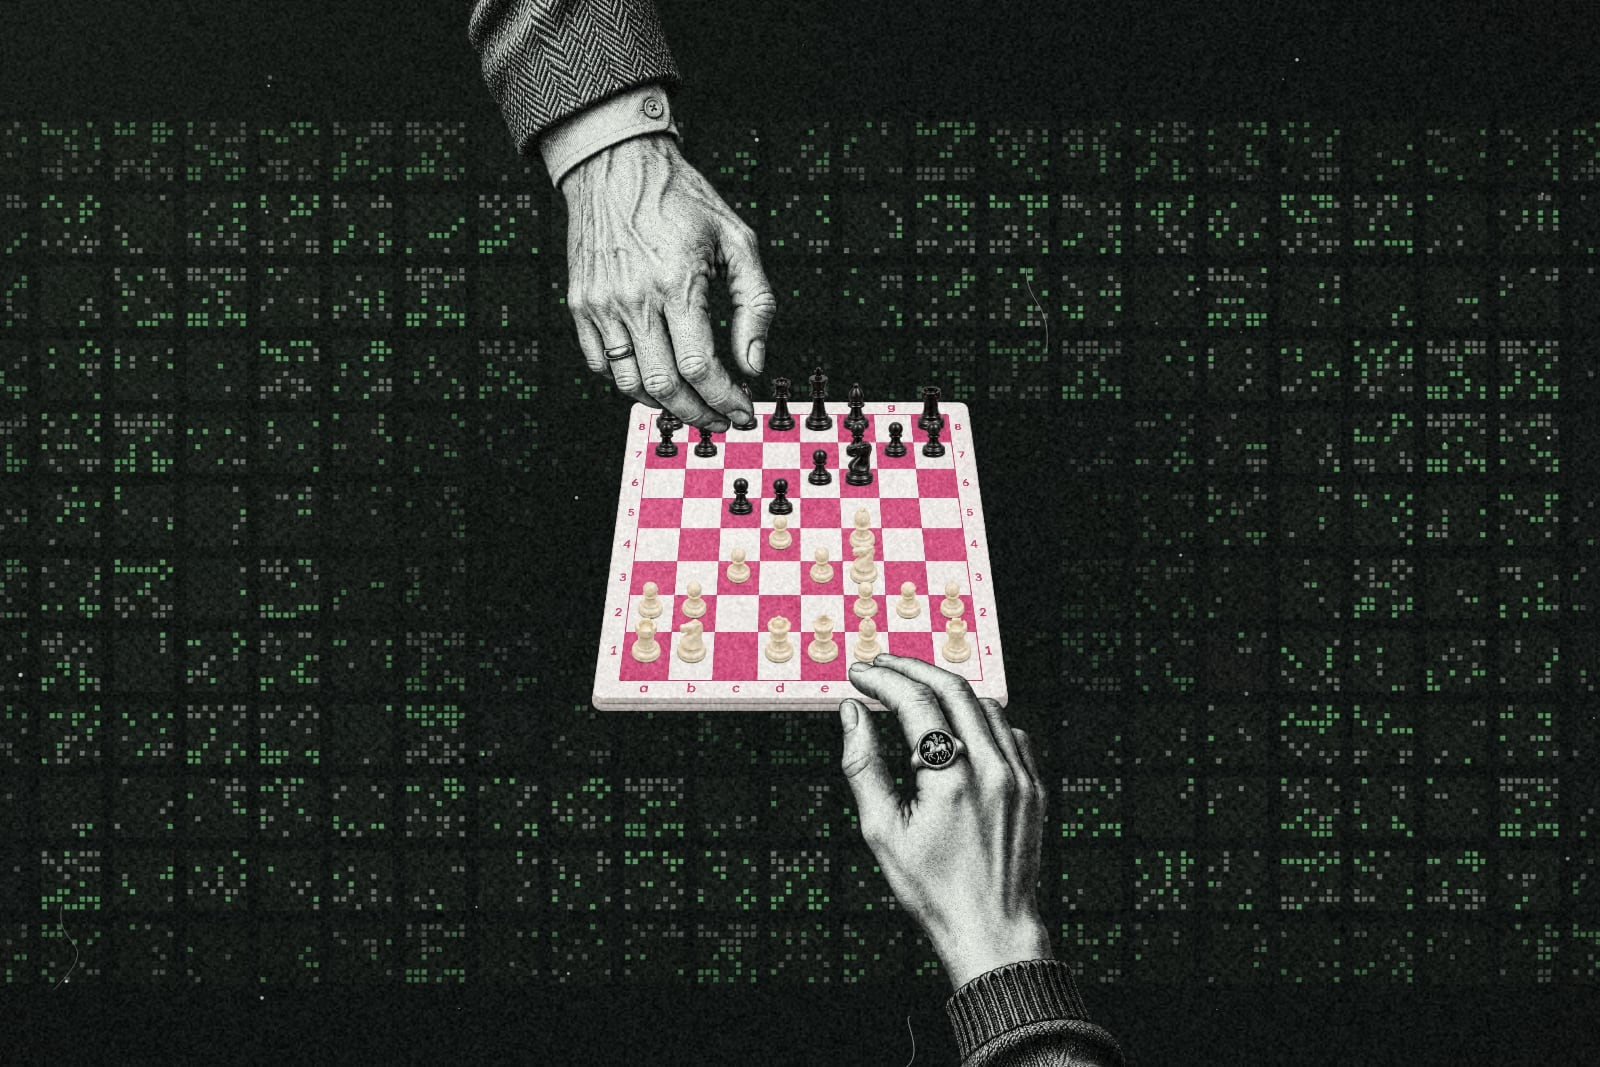
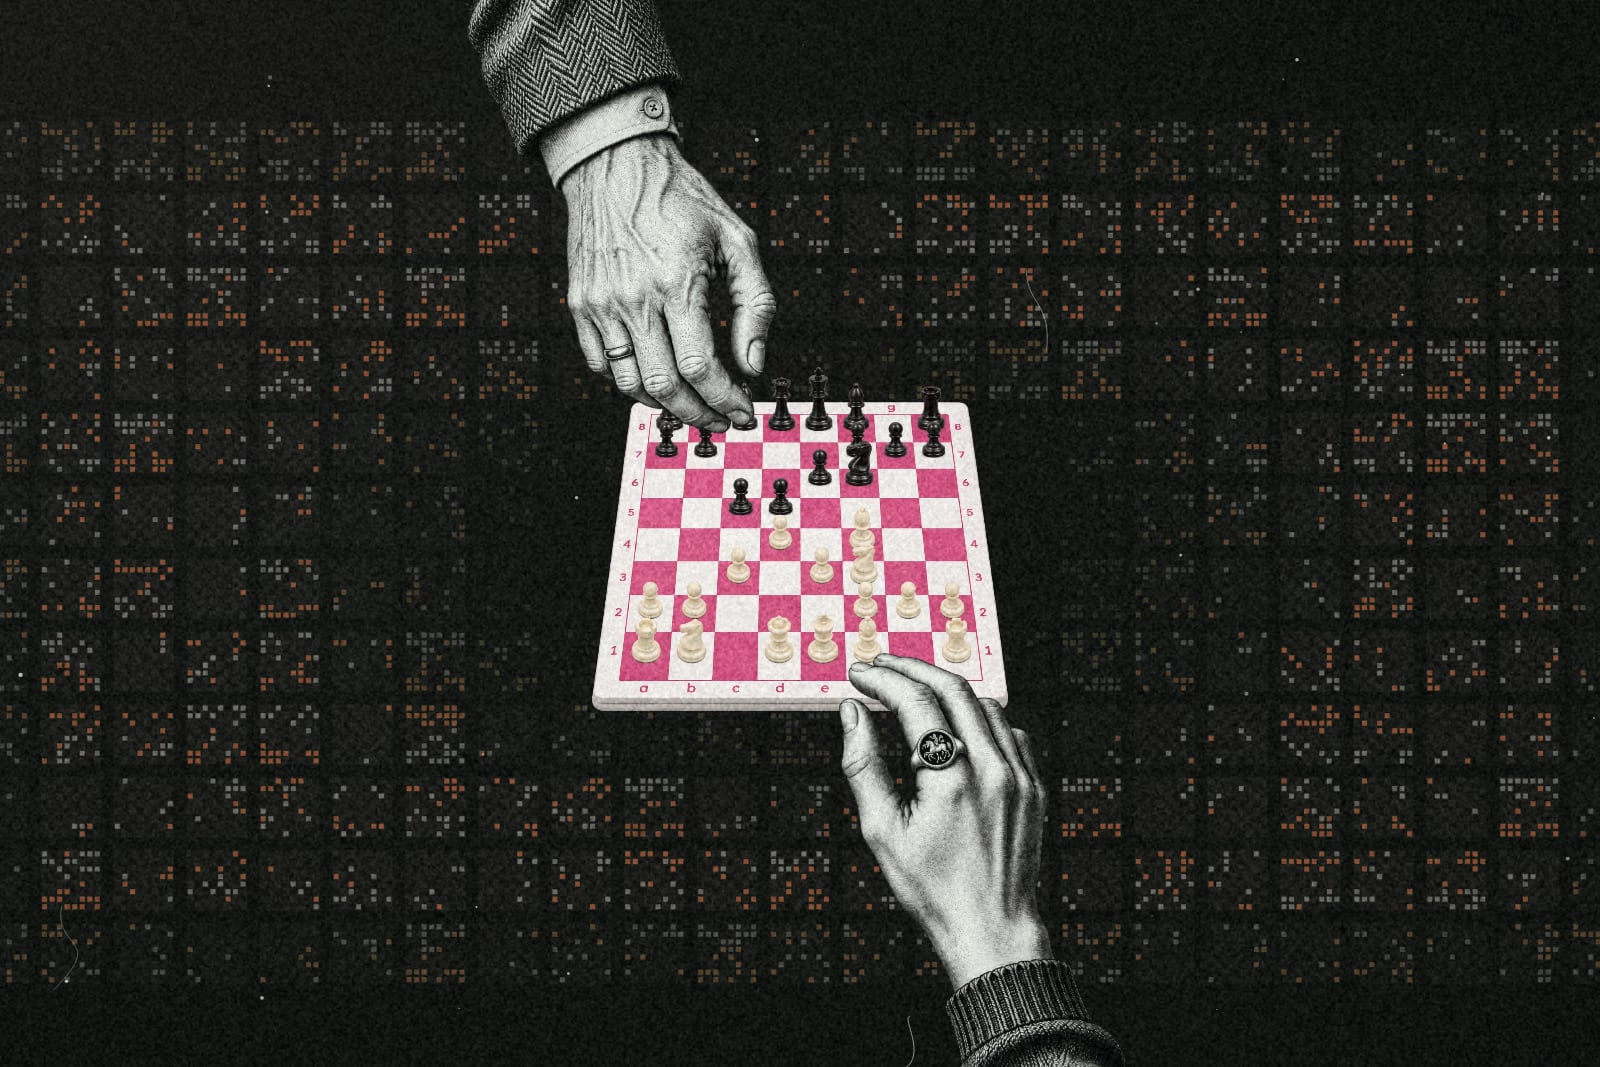
Chess story: colour roles (clay author, green reader, blue and gold for the others), ivory navigation, cover grid in clay

diff --git a/src/components/stories/chess/chess.module.css b/src/components/stories/chess/chess.module.css
@@ -7,6 +7,13 @@
   --thread: var(--form-essay);
   /* The estimate beside it, in the site's green for data. */
   --social: var(--form-data);
+  /* Colour roles. Clay is the author; green is the reader, and only the reader.
+     The others' side is blue (what they do, the computer, resigning) and gold
+     (what they say, the upside, games saved); the crowd itself is ivory. The
+     four were checked together on the page's dark ground (separation, contrast);
+     gold and green stay apart by labels and place, never by hue alone. */
+  --other: #3d8bff;
+  --other-2: #dba51d;
   position: relative;
   isolation: isolate;
 }
@@ -81,7 +88,7 @@
   content: ""; position: absolute; left: 0; top: 50%; z-index: 1; width: 7px; height: 7px; margin-top: -3.5px; border-radius: 50%;
   background: var(--ink-3); box-shadow: 0 0 0 4px var(--void); transition: background-color 150ms ease, transform 150ms ease;
 }
-.ch-navList > li[data-on="true"] > a::before { background: var(--form-data); transform: scale(1.3); }
+.ch-navList > li[data-on="true"] > a::before { background: var(--ink); transform: scale(1.3); }
 
 /* A wide screen: the rail. The story's column gives way on the right for as
    much as the margin lacks, so the rail is never over the story; and the
@@ -99,7 +106,7 @@
   /* the line through the dots, and how much of it the reader has come */
   .ch-navList::before, .ch-navList::after { content: ""; position: absolute; left: 3px; top: var(--line-top, 0px); width: 1px; }
   .ch-navList::before { height: var(--line-long, 0px); background: var(--rule-strong); }
-  .ch-navList::after { height: var(--line-done, 0px); background: var(--form-data); }
+  .ch-navList::after { height: var(--line-done, 0px); background: var(--ink-2); }
   .ch-navList > li > a { display: block; padding-left: 24px; font: 400 13px / 1.35 var(--font-mono); }
   /* the parts of a chapter show while it is being read, or while the keyboard is in it */
   .ch-story .ch-navParts { display: none; gap: 9px; padding: 11px 0 2px 24px; }
@@ -118,11 +125,11 @@
     font: 500 13px / 1 var(--font-mono); text-align: left; cursor: pointer; pointer-events: auto; -webkit-tap-highlight-color: transparent;
   }
   .ch-navNow { display: inline-flex; align-items: center; gap: 10px; min-width: 0; white-space: nowrap; }
-  .ch-navNow::before { content: ""; flex: none; width: 7px; height: 7px; border-radius: 50%; background: var(--form-data); }
+  .ch-navNow::before { content: ""; flex: none; width: 7px; height: 7px; border-radius: 50%; background: var(--ink); }
   .ch-navAsk { display: inline-flex; flex: none; align-items: center; gap: 9px; color: var(--ink-2); font-size: 10.5px; letter-spacing: 0.12em; text-transform: uppercase; }
   .ch-navAsk svg { width: 12px; height: 12px; fill: none; stroke: currentColor; stroke-width: 1.2; stroke-linecap: round; }
   /* how far through the chapters the reader is, along the bar's foot */
-  .ch-navDone { position: absolute; left: 0; right: 0; bottom: -1px; height: 2px; background: var(--form-data); transform-origin: 0 50%; transform: scaleX(var(--done, 0)); }
+  .ch-navDone { position: absolute; left: 0; right: 0; bottom: -1px; height: 2px; background: var(--ink-2); transform-origin: 0 50%; transform: scaleX(var(--done, 0)); }
   .ch-navPanel {
     position: absolute; top: var(--bar); left: calc(-1 * var(--page-margin)); right: calc(-1 * var(--page-margin)); display: none;
     max-height: calc(100vh - var(--bar)); max-height: calc(100svh - var(--bar)); overflow-y: auto; padding: 18px var(--page-margin) 14px;
@@ -707,8 +714,8 @@
 .ch-rvLine { transition: opacity var(--ch-fade) ease; }
 .ch-rvLine[data-on="false"] { opacity: 0.3; }
 .ch-rvAxis { stroke: var(--rule-strong); stroke-width: 1; }
-.ch-rvMiddle { fill: var(--ink); opacity: 0; transition: opacity var(--ch-fade) ease; }
-.ch-rvMiddle[data-on="true"] { opacity: 0.08; }
+.ch-rvMiddle { fill: var(--other); opacity: 0; transition: opacity var(--ch-fade) ease; }
+.ch-rvMiddle[data-on="true"] { opacity: 0.14; }
 .ch-rvName { fill: var(--ink); font: 400 19px / 1 var(--font-title); }
 .ch-rvWhat { fill: var(--ink-2); font: 400 12px / 1 var(--font-mono); }
 .ch-rvEnd { fill: var(--ink-2); font: 400 12px / 1 var(--font-mono); }
@@ -809,19 +816,19 @@
 .ch-rvCard[data-truth="true"] { border-color: var(--ink); box-shadow: inset 0 0 0 1px var(--ink); }
 .ch-rvCard[data-truth="her"] { border-color: var(--thread); box-shadow: inset 0 0 0 1px var(--thread); }
 .ch-rvCard[data-truth="you"] { border-color: var(--form-data); box-shadow: inset 0 0 0 1px var(--form-data); }
-.ch-rvCard[data-cpu="true"] { outline: 1.5px dashed var(--ink-2); outline-offset: 3px; }
+.ch-rvCard[data-cpu="true"] { outline: 1.5px dashed var(--other); outline-offset: 3px; }
 .ch-rvCard[data-dim="true"] { opacity: 0.4; }
 .ch-rvFlags { position: absolute; left: -8px; right: -8px; top: calc(100% + 5px); text-align: center; white-space: nowrap; font: 500 10.5px / 1 var(--font-mono); }
 .ch-rvFlags [data-kind="truth"] { color: var(--ink); }
 .ch-rvFlags [data-kind="her"] { color: var(--thread); }
 .ch-rvFlags [data-kind="you"] { color: var(--form-data); }
-.ch-rvFlags [data-kind="cpu"] { color: var(--ink-2); }
+.ch-rvFlags [data-kind="cpu"] { color: var(--other); }
 
 /* the curve */
 .ch-rvGrid0 { stroke: var(--rule); stroke-width: 1; }
 .ch-rvGrid0[data-zero="true"] { stroke: var(--rule-strong); }
 .ch-rvTick { fill: var(--ink-2); font: 400 12px / 1 var(--font-mono); }
-.ch-rvSeries { --line: var(--ink-2); }
+.ch-rvSeries { --line: var(--other); }
 .ch-rvSeries[data-kind="chance"] { --line: var(--ink-3); }
 .ch-rvSeries[data-kind="her"] { --line: var(--thread); }
 .ch-rvSeries[data-kind="you"] { --line: var(--form-data); }
@@ -831,7 +838,7 @@
 .ch-rvSeries[data-kind="disguise"] path { stroke-width: 2; }
 .ch-rvSeries circle { fill: var(--line); }
 .ch-rvSeries text, .ch-rvEndLabel { fill: var(--line); font: 500 12.5px / 1 var(--font-mono); }
-.ch-rvEndLabel { --line: var(--ink-2); }
+.ch-rvEndLabel { --line: var(--other); }
 .ch-rvEndLabel[data-kind="chance"] { --line: var(--ink-3); }
 .ch-rvEndLabel[data-kind="her"] { --line: var(--thread); }
 .ch-rvEndLabel[data-kind="you"] { --line: var(--form-data); }
@@ -858,7 +865,7 @@
 }
 /* What we do when things go wrong (wrong.js): the phone, the fork, the hundred, the charts.
    Clay is the author; data green, games saved and the reader's controls; lavender, resigning. */
-.ch-wrong { --scene: wrong; --resign: #b59dd9; --lost: #55524d; --saved: var(--ink); }
+.ch-wrong { --scene: wrong; --resign: var(--other); --lost: #55524d; --saved: var(--other-2); }
 .ch-wrongScene { position: relative; width: 100%; height: 100%; display: grid; place-items: center; }
 .ch-layer.ch-wrongLayer { inset: 0; display: grid; place-items: center; }
 /* The boards of her games, as Chess.com draws them (cc-board.js), without the phone. */
@@ -1040,11 +1047,13 @@
 .ch-paceCloud[data-crowd="true"] circle, .ch-crowdDot[data-settled="true"], .ch-crowdDot[data-tone] {
   transition: transform 1100ms var(--ch-ease), opacity 500ms ease, fill 500ms ease;
 }
-.ch-ratings circle[data-tone="quiet"] { fill: var(--ink-3); }
+.ch-ratings circle[data-tone="quiet"] { fill: var(--ink-2); }
+.ch-ratings circle[data-tone="blue"] { fill: var(--other); }
+.ch-ratings circle[data-tone="gold"] { fill: var(--other-2); }
 .ch-ratings circle[data-tone="plain"] { fill: var(--ink-2); }
 .ch-ratings circle[data-tone="lit"] { fill: var(--ink); }
-.ch-ratings circle[data-tone="resign"] { fill: var(--resign, #b59dd9); }
-.ch-ratings circle[data-tone="kept"] { fill: var(--ink-3); }
+.ch-ratings circle[data-tone="resign"] { fill: var(--resign, var(--other)); }
+.ch-ratings circle[data-tone="kept"] { fill: var(--ink-2); }
 .ch-crowdFade, .ch-crowdMarks > g, .ch-crowdTag { transition: opacity 500ms ease; }
 .ch-crowdFade:not([data-settled]) { transition: none; }
 .ch-ratingMe[data-settled="true"] { transition: transform 1100ms var(--ch-ease), opacity 500ms ease; }
@@ -1058,10 +1067,14 @@
 .ch-ratings .ch-crowdLabelLit { fill: var(--ink); }
 .ch-ratings .ch-crowdExample { fill: var(--ink-2); opacity: 0.8; }
 .ch-crowdMedian line { stroke: var(--ink); stroke-width: 2; }
+.ch-crowdMedian[data-hue="blue"] line { stroke: var(--other); }
+.ch-crowdMedian[data-hue="gold"] line { stroke: var(--other-2); }
+.ch-hueBlue { fill: var(--other); }
+.ch-hueGold { fill: var(--other-2); }
 .ch-ratings .ch-crowdMedian text { fill: var(--ink); }
 .ch-crowdMe { stroke: var(--thread); stroke-width: 1.5; }
-.ch-ratings .ch-crowdResign { fill: var(--resign, #b59dd9); }
-.ch-sayPin { --resign: #b59dd9; }
+.ch-ratings .ch-crowdResign { fill: var(--resign, var(--other)); }
+.ch-sayPin { --resign: var(--other); }
 .ch-ratingReadout b.ch-crowdResignText { color: var(--resign); }
 /* the guesses, in the words beside the crowd: all four kinds in one step */
 .ch-nameAsks { display: grid; gap: 18px; margin-top: 22px; }

diff --git a/src/components/stories/chess/crowd.js b/src/components/stories/chess/crowd.js
@@ -18,7 +18,7 @@ export const GROUPS = NAMES.groups
 export const TYPICAL = NAMES.typical
 export const MY_RAPID = say.fast.rapid
 export const RATING_MAX = 2500
-export const RESIGN = "#b59dd9"
+export const RESIGN = "#3d8bff"
 
 export const truth = g => (g.high < 0.5 ? "lower" : g.low > 0.5 ? "higher" : "same")
 
@@ -162,12 +162,14 @@ export const dotAt = (layout, index, { stage, step, revealed }) => {
   }
   const key = layout.rowOf[index]
   const active = activeGroups(step)
-  if (key === "everyone") return { ...layout.shown[index], opacity: active.length ? 0.3 : 0.45, tone: "quiet" }
-  if (!revealed[key]) return { ...layout.waiting[index], opacity: active.includes(key) ? 0.6 : 0.28, tone: "quiet" }
-  return { ...layout.shown[index], opacity: !active.length || active.includes(key) ? 0.95 : 0.3, tone: active.includes(key) ? "lit" : "plain" }
+  if (key === "everyone") return { ...layout.shown[index], opacity: active.length ? 0.38 : 0.6, tone: "quiet" }
+  if (!revealed[key]) return { ...layout.waiting[index], opacity: active.includes(key) ? 0.75 : 0.4, tone: "quiet" }
+  // the two claims have a hue: saying it is bad is blue, saying it is good is gold; the others stay ivory
+  return { ...layout.shown[index], opacity: !active.length || active.includes(key) ? 0.95 : 0.4, tone: HUE[key] || (active.includes(key) ? "lit" : "plain") }
 }
 
 const median = g => g.median
+const HUE = { bad: "blue", good: "gold" }
 
 // The words and lines drawn over the dots: the tags, the rows, the typical
 // line, the medians, me, and the two squares of the last beat.
@@ -205,13 +207,14 @@ export const CrowdMarks = ({ layout, stage, step, revealed, left, right, top, bo
           const open = !g || revealed[g.key]
           return (
             <g key={b.key} data-lit={lit ? "true" : undefined} className={c("ch-crowdRow")}>
+              {g && HUE[g.key] && !narrow ? <circle cx={left - 9} cy={b.top + 8} r={3.5} className={c(HUE[g.key] === "blue" ? "ch-hueBlue" : "ch-hueGold")} /> : null}
               {/* on a narrow frame the labels stand at the sparse right end, clear of the medians */}
               <text x={narrow ? right : left} y={b.top + 12} textAnchor={narrow ? "end" : undefined} className={c(lit ? "ch-crowdLabelLit" : "ch-crowdLabel")}>
                 {g ? <>{g.label}<tspan className={c("ch-crowdExample")}>{narrow ? "" : ` · ${g.examples[0]}…`}</tspan></> : "Everyone else"}
               </text>
               {g && !open ? <text x={b.pileEnd + 8} y={(b.bandTop + b.bandBottom) / 2 + 4} className={c("ch-crowdUnknown")}>?</text> : null}
               {g && open ? (
-                <g className={c("ch-crowdMedian")}>
+                <g className={c("ch-crowdMedian")} data-hue={HUE[g.key]}>
                   <line x1={rx(median(g))} x2={rx(median(g))} y1={b.bandTop - 3} y2={b.bandBottom + 1} />
                   <text x={rx(median(g)) + 6} y={b.top + 12}>{median(g)}</text>
                 </g>
